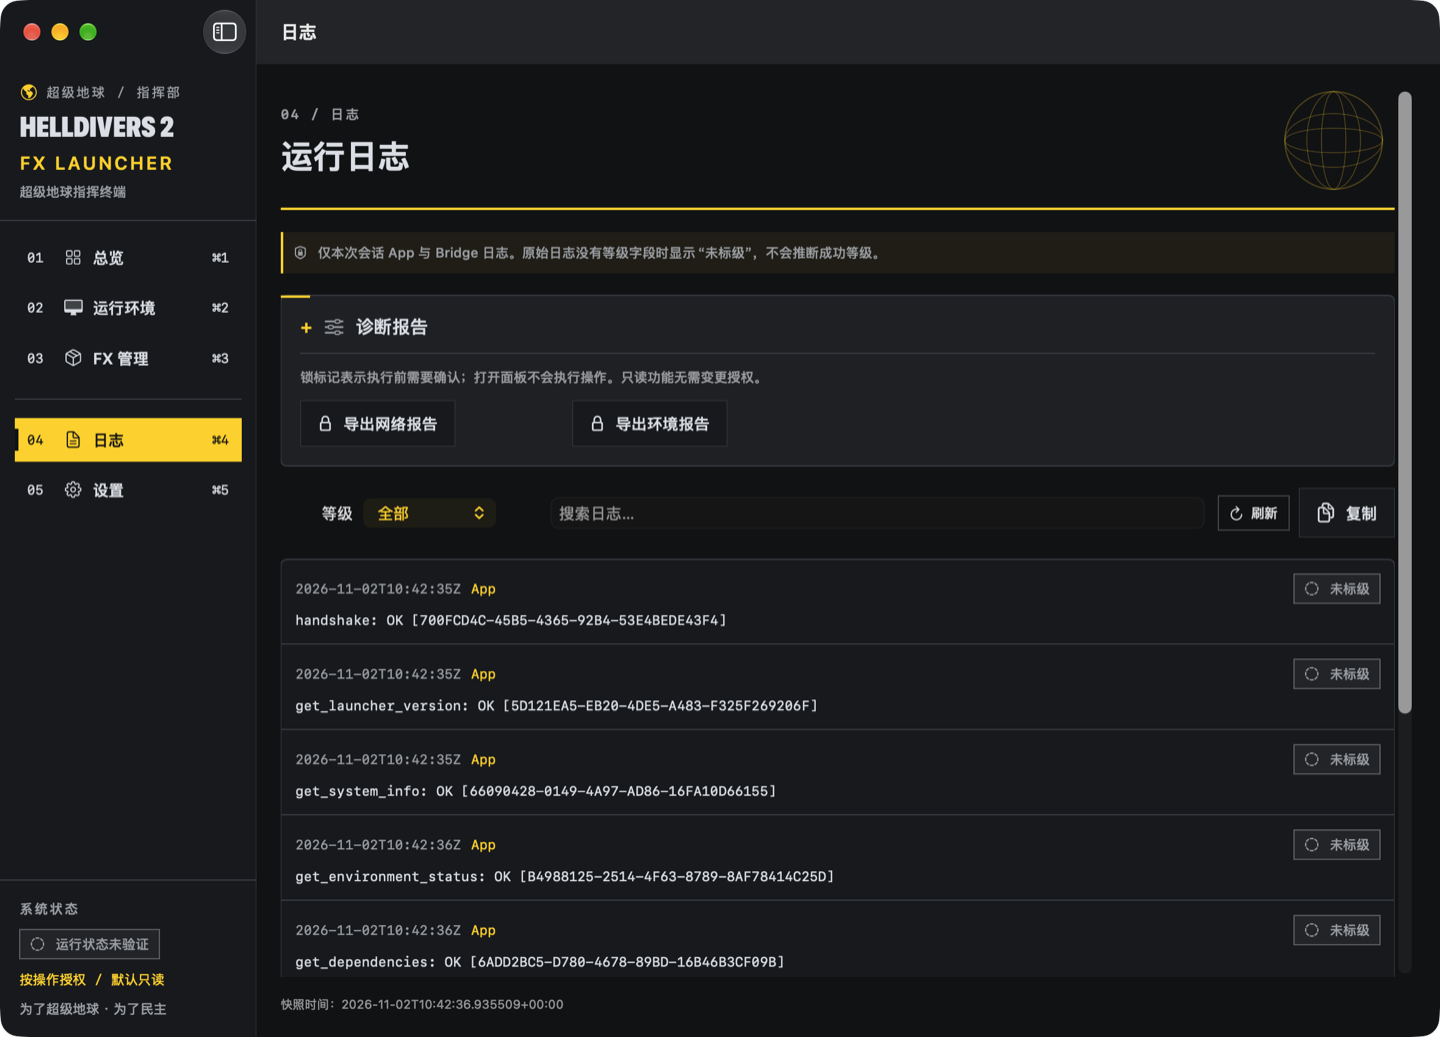
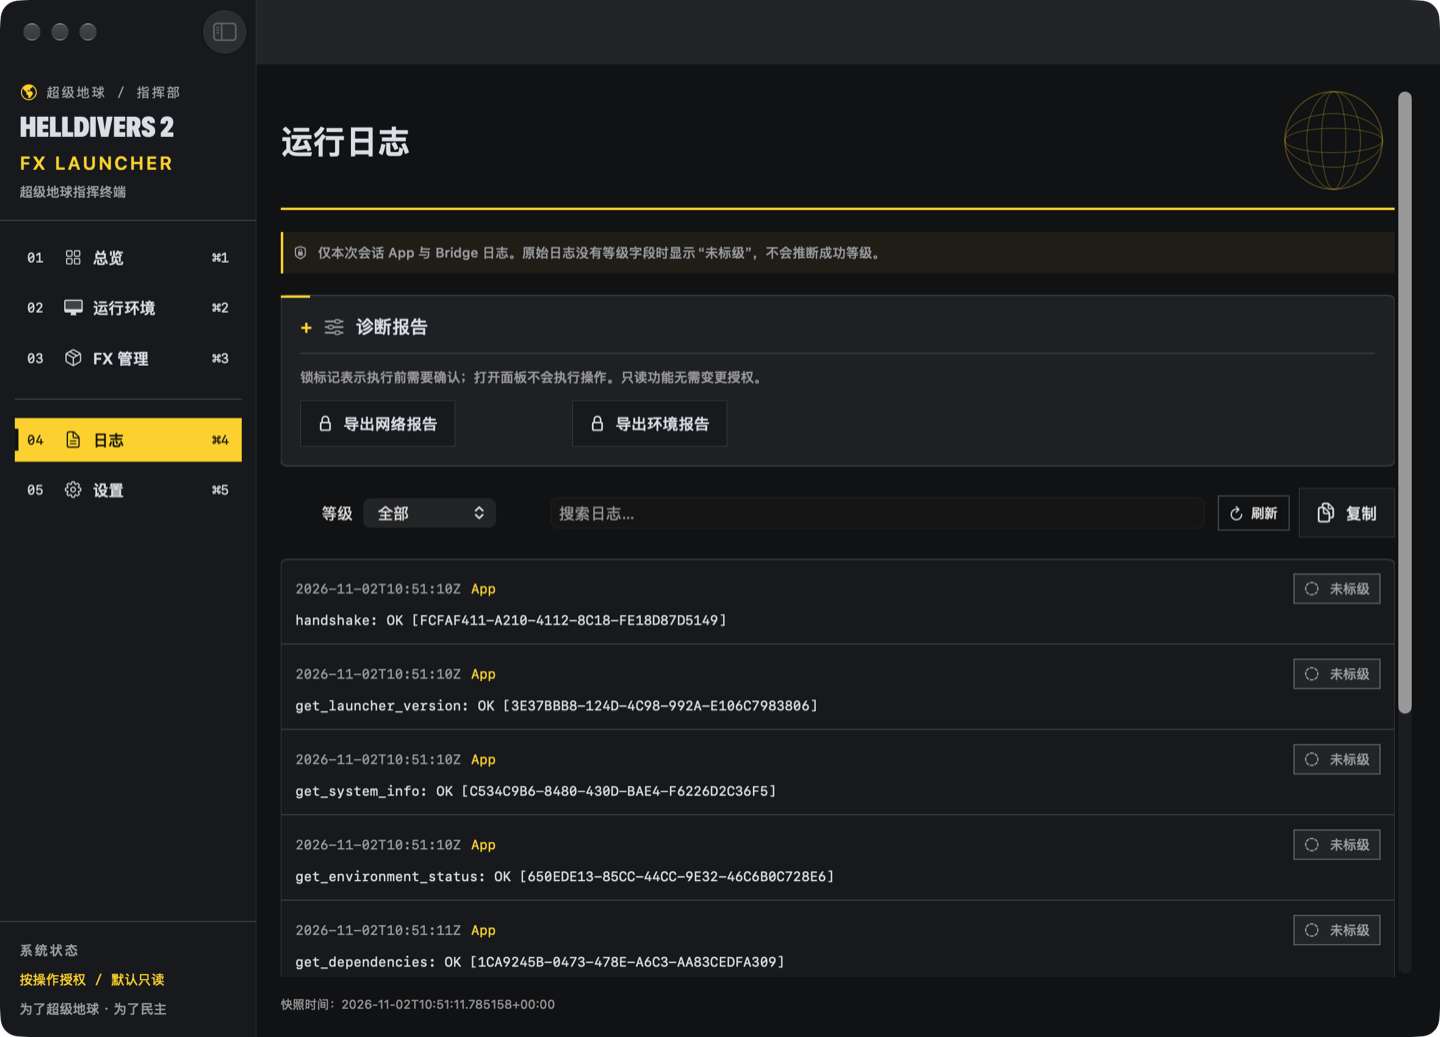
ui: simplify page headings and consolidate status information

diff --git a/native-app/Views/DashboardView.swift b/native-app/Views/DashboardView.swift
@@ -7,11 +7,10 @@ struct DashboardView: View {
     private var c: TacticalColors { TacticalColors(scheme: scheme) }
     private var unverified: String { state.t("未验证", "Unverified") }
     private var launchReason: String {
-        state.t("默认只读。启动需主动操作、指定既有运行目录，并确认实际变更；兼容性与联机仍未验证。", "Read-only by default. Launch requires an explicit action, an existing runtime directory and approval of actual changes. Compatibility and multiplayer remain unverified.")
+        state.t("启动需主动操作、指定既有运行目录，并确认实际变更；兼容性与联机仍未验证。", "Launch requires an explicit action, an existing runtime directory and approval of actual changes. Compatibility and multiplayer remain unverified.")
     }
     var body: some View {
         VStack(alignment: .leading, spacing: TacticalSpacing.panel) {
-            commandBar
             hero
             if state.launchSession.current != .idle { LaunchProgressView(state: state, tasks: tasks) }
             if let error = state.error {
@@ -35,38 +34,15 @@ struct DashboardView: View {
             }
         }.foregroundStyle(c.text).font(TacticalTypography.body)
     }
-    private var commandBar: some View {
-        ViewThatFits(in: .horizontal) {
-            HStack {
-                TacticalEyebrow(text: state.t("超级地球 / 指挥界面", "SUPER EARTH / COMMAND INTERFACE"))
-                Spacer(minLength: 12)
-                TacticalStatusBadge(text: state.t("迁移预览 · 默认只读", "MIGRATION PREVIEW · READ-ONLY DEFAULT"))
-            }
-            VStack(alignment: .leading, spacing: 8) {
-                TacticalEyebrow(text: state.t("超级地球 / 指挥界面", "SUPER EARTH / COMMAND INTERFACE"))
-                TacticalStatusBadge(text: state.t("迁移预览 · 默认只读", "MIGRATION PREVIEW · READ-ONLY DEFAULT"))
-            }
-        }
-    }
     private var hero: some View {
         VStack(alignment: .leading, spacing: 0) {
             VStack(alignment: .leading, spacing: 22) {
                 VStack(alignment: .leading, spacing: 6) {
-                    HStack(spacing: 8) {
-                        Text("01").foregroundStyle(c.accent)
-                        Text(state.pageTitle(.dashboard)).foregroundStyle(c.muted)
-                            .accessibilityIdentifier("page.title")
-                        Text("/ " + state.value("get_launcher_version", "version")).foregroundStyle(c.muted)
-                    }.font(TacticalTypography.log)
                     Text("HELLDIVERS 2").font(TacticalTypography.brand).foregroundStyle(c.accent).lineLimit(1).minimumScaleFactor(0.75)
-                        .accessibilityAddTraits(.isHeader)
+                        .accessibilityIdentifier("page.title").accessibilityAddTraits(.isHeader)
                     Text("FX LAUNCHER").font(.system(size: 19, weight: .bold, design: .monospaced)).tracking(4).foregroundStyle(c.text)
-                    TacticalDivider().padding(.vertical, 5)
-                    Text(state.t("为了超级地球 · 为了民主", "FOR SUPER EARTH / FOR DEMOCRACY"))
-                        .font(TacticalTypography.caption).foregroundStyle(c.muted)
                 }.frame(maxWidth: 380, alignment: .leading)
                 HStack(spacing: 10) {
-                    TacticalEyebrow(text: state.t("行动状态", "OPERATION STATUS"))
                     TacticalStatusBadge(text: state.t("当前运行状态：未验证", "Current runtime: unverified"))
                 }
             }
@@ -97,7 +73,6 @@ struct DashboardView: View {
     }
     private var runtimeCard: some View {
         TacticalPanel(number: "02", title: state.t("FX 运行时", "FX RUNTIME"), symbol: "shippingbox") {
-            TacticalStatusBadge(text: unverified)
             TacticalInfoRow(title: state.t("已发现版本", "Discovered versions"), value: versions)
             TacticalInfoRow(title: state.t("运行路径", "Runtime path"), value: state.t("未读取", "Not read"))
             Text(state.t("仅应用元数据；未识别当前运行实例。", "App metadata only; the active runtime has not been identified."))
@@ -118,7 +93,6 @@ struct DashboardView: View {
     }
     private var environmentCard: some View {
         TacticalPanel(number: "03", title: state.t("运行环境", "ENVIRONMENT"), symbol: "desktopcomputer") {
-            TacticalStatusBadge(text: state.hasLoaded ? state.t("本机元数据", "Host metadata") : state.t("尚未读取", "Not yet inspected"))
             TacticalInfoRow(title: "macOS", value: state.value("get_system_info", "os_version"))
             TacticalInfoRow(title: state.t("架构", "Architecture"), value: architecture)
             TacticalInfoRow(title: "Python", value: state.value("get_system_info", "python"))

diff --git a/native-app/Views/FXManagerView.swift b/native-app/Views/FXManagerView.swift
@@ -4,7 +4,7 @@ struct FXManagerView: View {
     @ObservedObject var state: AppState
     var body: some View {
         VStack(alignment: .leading, spacing: 20) {
-            TacticalPageHeader(number: "03", title: state.t("FX 版本管理", "FX version management"), section: state.pageTitle(.fx), refreshState: state)
+            TacticalPageHeader(title: state.t("FX 版本管理", "FX version management"), refreshState: state)
             if state.results["list_fx_versions"]?["scan_incomplete"]?.boolean == true {
                 TacticalWarningBanner(text: scanWarning + " " + state.t("这是扫描范围限制，不代表安装异常。", "This limits scan coverage; it does not indicate a damaged installation."))
             }
@@ -16,13 +16,11 @@ struct FXManagerView: View {
                 ForEach(Array(candidates.enumerated()), id: \.offset) { index, row in
                     TacticalPanel(number: String(format: "%02d", index + 1), title: "FX " + version(row), symbol: "shippingbox") {
                         TacticalStatusBadge(text: state.t("已发现 · 元数据", "Discovered · Metadata"))
-                        TacticalInfoRow(title: state.t("版本", "Version"), value: version(row))
                         TacticalInfoRow(title: state.t("App 名称", "App name"), value: row["path"]?.text.map { URL(fileURLWithPath: $0).lastPathComponent } ?? state.t("未知", "Unknown"))
                         TacticalInfoRow(title: state.t("扫描位置", "Discovery scope"), value: row["location"]?.text ?? state.t("未知", "Unknown"))
                         TacticalInfoRow(title: state.t("完整安装路径", "Full installation path"), value: row["path"]?.text ?? state.t("未知", "Unknown"))
                         TacticalDivider()
                         TacticalInfoRow(title: state.t("安装文件", "Installation files"), value: state.t("已发现 · 仅元数据", "Found · Metadata only"))
-                        TacticalInfoRow(title: state.t("扫描范围", "Scan coverage"), value: state.results["list_fx_versions"]?["scan_incomplete"]?.boolean == true ? state.t("限定扫描不完整", "Bounded scan incomplete") : state.t("已完成限定目录扫描", "Bounded directories inspected"))
                         TacticalInfoRow(title: state.t("结构检测", "Structure check"), value: row["structure"]?.text == "metadata_valid" ? state.t("匹配 Core 结构规则", "Matches Core structure rules") : state.t("未验证", "Unverified"))
                         TacticalDivider()
                         TacticalInfoRow(title: state.t("进程 / 活动实例", "Process / Active instance"), value: state.t("无法确认 · 未执行实例关联检测", "Cannot confirm · No instance correlation probe"))

diff --git a/native-app/Views/SettingsView.swift b/native-app/Views/SettingsView.swift
@@ -12,7 +12,7 @@ struct SettingsView: View {
     @StateObject private var presentation = SettingsPresentation()
     var body: some View {
         VStack(alignment: .leading, spacing: 20) {
-            TacticalPageHeader(number: "05", title: state.t("设置", "Settings"), section: state.pageTitle(.settings))
+            TacticalPageHeader(title: state.t("设置", "Settings"))
             TacticalPanel(number: "A", title: state.t("界面设置", "Interface"), symbol: "slider.horizontal.3") {
                 Picker(state.t("语言", "Language"), selection: $state.languageCode) {
                     ForEach(NativeLocalization.languages, id: \.0) { code, title in Text(title).tag(code) }
@@ -35,10 +35,7 @@ struct SettingsView: View {
             }
             SoftwareUpdateView(manager: state.updates, language: state.languageCode)
             LegacyOperationsView(state: state, scope: "settings")
-            TacticalPanel(number: "C", title: state.t("高级设置", "Advanced"), symbol: "lock.shield") {
-                TacticalInfoRow(title: state.t("操作权限", "Operations"), value: state.t("默认只读 · 逐操作确认", "Read-only default · Per-action consent"))
-                TacticalInfoRow(title: state.t("配置写入", "Configuration writes"), value: state.t("需预览与确认", "Preview and confirmation required"))
-            }
+
         }
         .fileImporter(isPresented: $presentation.choosingPython, allowedContentTypes: [.item], allowsMultipleSelection: false) { result in
             guard case .success(let urls) = result, let url = urls.first else { return }
@@ -68,6 +65,10 @@ struct LegacyOperationsView: View {
     }
     var body: some View {
         TacticalPanel(number: "+", title: title, symbol: "slider.horizontal.3") {
+            if scope == "settings" {
+                TacticalInfoRow(title: state.t("操作权限", "Operations"), value: state.t("默认只读 · 逐操作确认", "Read-only default · Per-action consent"))
+                TacticalInfoRow(title: state.t("配置写入", "Configuration writes"), value: state.t("需预览与确认", "Preview and confirmation required"))
+            }
             if state.rows("get_legacy_catalog", "operations").isEmpty {
                 Text(state.t("请刷新以读取后端能力。", "Refresh to read backend capabilities."))
             }

diff --git a/native-app/App/DesignSystem/TacticalComponents.swift b/native-app/App/DesignSystem/TacticalComponents.swift
@@ -182,27 +182,24 @@ struct SuperEarthGlobeDecoration: View {
     }
 }
 
+// One content heading per page; navigation identity belongs to the sidebar.
 struct TacticalPageHeader: View {
-    let number: String
     let title: String
-    let section: String
     var refreshState: AppState? = nil
     @Environment(\.colorScheme) private var scheme
     var body: some View {
         let c = TacticalColors(scheme: scheme)
         VStack(alignment: .leading, spacing: 12) {
-            HStack {
-                VStack(alignment: .leading, spacing: 10) {
-                    TacticalEyebrow(text: number + " / " + section)
-                    ViewThatFits(in: .horizontal) {
-                        HStack(alignment: .firstTextBaseline, spacing: 12) {
-                            pageTitle
-                            if let refreshState { TacticalRefreshButton(state: refreshState, tasks: refreshState.tasks) }
-                        }
-                        VStack(alignment: .leading, spacing: 10) {
-                            pageTitle
-                            if let refreshState { TacticalRefreshButton(state: refreshState, tasks: refreshState.tasks) }
-                        }
+            HStack(spacing: 12) {
+                ViewThatFits(in: .horizontal) {
+                    HStack(alignment: .firstTextBaseline, spacing: 12) {
+                        pageTitle
+                        Spacer(minLength: 12)
+                        if let refreshState { TacticalRefreshButton(state: refreshState, tasks: refreshState.tasks) }
+                    }
+                    VStack(alignment: .leading, spacing: 10) {
+                        pageTitle
+                        if let refreshState { TacticalRefreshButton(state: refreshState, tasks: refreshState.tasks) }
                     }
                 }.frame(maxWidth: .infinity, alignment: .leading)
                 SuperEarthGlobeDecoration()

diff --git a/native-app/Views/EnvironmentView.swift b/native-app/Views/EnvironmentView.swift
@@ -13,7 +13,7 @@ struct EnvironmentView: View {
     }
     var body: some View {
         VStack(alignment: .leading, spacing: 20) {
-            TacticalPageHeader(number: "02", title: state.t("运行环境检测", "Environment inspection"), section: state.pageTitle(.environment), refreshState: state)
+            TacticalPageHeader(title: state.t("运行环境检测", "Environment inspection"), refreshState: state)
             TacticalAdaptiveLayout(minimumWidth: 140, maximumColumns: 4) {
                 TacticalMetric(title: "macOS", value: state.value("get_system_info", "os_version"), symbol: "apple.logo")
                 TacticalMetric(title: state.t("架构", "Architecture"), value: state.value("get_system_info", "arch"), symbol: "cpu")
@@ -38,7 +38,6 @@ struct EnvironmentView: View {
                         .font(TacticalTypography.caption).foregroundStyle(.secondary)
                 }
                 TacticalPanel(number: "B", title: state.t("运行组件", "Runtime components"), symbol: "cpu") {
-                    badge(snapshotStatus("get_environment_status"))
                     TacticalInfoRow(title: state.t("FX 运行时", "FX runtime"), value: state.t("无法确认 · 只读快照未探测进程", "Cannot confirm · Snapshot does not probe processes"))
                     TacticalInfoRow(title: state.t("gvproxy 运行时", "gvproxy runtime"), value: state.t("无法确认 · 只读快照未探测服务", "Cannot confirm · Snapshot does not probe services"))
                     TacticalWarningBanner(text: state.t("刷新不会启动 FX 或连接 Guest。使用网络与连接工具主动检查；启动记录不等于当前实时状态。", "Refresh does not start FX or connect to Guest. Use the connection tools for explicit checks; launch history is not current live state."))

diff --git a/native-app/Views/LogsView.swift b/native-app/Views/LogsView.swift
@@ -38,7 +38,7 @@ struct LogsView: View {
     var body: some View {
         let c = TacticalColors(scheme: scheme)
         VStack(alignment: .leading, spacing: 18) {
-            TacticalPageHeader(number: "04", title: state.t("运行日志", "Session logs"), section: state.pageTitle(.logs))
+            TacticalPageHeader(title: state.t("运行日志", "Session logs"))
             TacticalWarningBanner(text: state.t("仅本次会话 App 与 Bridge 日志。原始日志没有等级字段时显示“未标级”，不会推断成功等级。", "App and bridge logs from this session only. Entries without an explicit severity remain unclassified; success is not inferred."))
             LegacyOperationsView(state: state, scope: "logs")
             ViewThatFits(in: .horizontal) {

diff --git a/native-app/Views/SidebarView.swift b/native-app/Views/SidebarView.swift
@@ -41,7 +41,6 @@ struct SidebarView: View {
             TacticalDivider()
             VStack(alignment: .leading, spacing: 10) {
                 TacticalEyebrow(text: state.t("系统状态", "SYSTEM STATUS"))
-                TacticalStatusBadge(text: state.t("运行状态未验证", "Runtime unverified"))
                 Text(state.t("按操作授权 / 默认只读", "ACTION CONSENT / READ-ONLY DEFAULT"))
                     .font(TacticalTypography.log).foregroundStyle(c.accent)
                 Text(state.t("为了超级地球 · 为了民主", "FOR SUPER EARTH\nFOR DEMOCRACY"))

diff --git a/native-app/Views/ContentView.swift b/native-app/Views/ContentView.swift
@@ -50,7 +50,7 @@ struct ContentView: View {
             .padding(TacticalSpacing.page)
             .frame(maxWidth: .infinity, maxHeight: .infinity, alignment: .topLeading)
             .background(TacticalColors(scheme: scheme).background)
-            .navigationTitle(state.selection == .dashboard ? "HELLDIVERS 2 / FX LAUNCHER" : (state.selection ?? .dashboard).title(state.chinese))
+            .navigationTitle("")
             .tint(TacticalColors(scheme: scheme).accent)
 
         }

diff --git a/AGENTS.md b/AGENTS.md
@@ -1,7 +1,7 @@
 # Native App development
 
-Instruction version: **v1.2.1** · Updated: **2026-11-02**.
-Change: unify five-page refresh placement, honest inspection states and production-facing tool labels; preserve launch, credential and updater boundaries.
+Instruction version: **v1.2.2** · Updated: **2026-11-02**.
+Change: require a single content heading, sidebar-only navigation numbering and scoped status explanations across the five pages.
 
 - Architecture: SwiftUI + narrowly scoped AppKit; one AppState and existing Service Layer. Refresh remains read-only. The functional migration permits allowlisted Core actions through the supervised Bridge, with explicit user initiation and consent for writes/launch/SSH. Unknown/unverified is never success. Development tests use isolated fixtures; real game/network/system changes require the corresponding user action.
 - Work on `feature/macos-native-app`; batch related changes, verify the affected behavior, commit and push the feature branch. Merge substantial completed stages into main only after appropriate checks. Never force-push, rewrite unknown history, delete releases/tags, or overwrite another developer's changes.
@@ -22,6 +22,8 @@ Change: unify five-page refresh placement, honest inspection states and producti
 UI instruction: **HD2_NATIVE_APP_UI_REFINEMENT_v1.0.2** · 2026-11-02. Five-page tactical visual system; the supplied generated soldier image is bundled as HelldiverHero and is Dashboard-only. Environment, FX, Logs and Settings share one small upper-right wireframe globe. Never use a whole UI preview as artwork or copy its example health states. Keep absent metadata explicit.
 
 UI polish instruction: **HD2_NATIVE_APP_UI_POLISH_v1.0.1** · 2026-11-02. No titlebar refresh control. Keep full read-only refresh on Dashboard Check Environment, Environment/FX page headers, Logs toolbar and Cmd-R; Settings has no independent refresh. Use Network and connection tools / FX diagnostics / Diagnostic reports / Advanced configuration names. Distinguish not checked, checking, normal, action needed, failed and cannot confirm using actual probe scope. Installation metadata never establishes an active FX/Guest or EAC/multiplayer health. Keep update controls before advanced configuration and use adaptive tool grids. Preserve existing authorization, session-only credentials and redaction.
+
+Information hierarchy instruction: **HD2_NATIVE_APP_UI_INFORMATION_HIERARCHY_v1.0.0** · 2026-11-02. Keep page names/numbers in the sidebar and one main heading in content. Remove redundant window page titles, content breadcrumbs and Dashboard command masthead. Place page actions beside the heading with a narrow-window fallback. Keep global read-only policy in the sidebar, component evidence at its component, and preserve all errors, risk/consent details, card functions and existing bindings.
 
 Functional instruction: **HD2_NATIVE_APP_FUNCTION_MIGRATION_v1.0.0** · 2026-11-02. Reuse actual archived behavior; no fabricated success, EAC or multiplayer inference. Keep target/hash/boot guards and exact-change approvals. Preserve unknown configuration with revision checking, backup and atomic replacement. Bound/redact logs and provide cancellation. No FX installation changes, file deletion or high-risk system actions without explicit confirmation. Original locale coverage and new Native translation coverage must be reported separately.
 

diff --git a/README.md b/README.md
@@ -59,7 +59,7 @@ Sparkle 2.10.1 is integrated for Launcher-only updates, with shared menu/setting
 
 ### Screenshots
 
-**Dashboard — five-page UI polish, actual App capture on 2026-11-02.** Click for the full image.
+**Dashboard — streamlined page hierarchy, actual App capture on 2026-11-02.** Click for the full image.
 
 [![Dashboard — actual Native App window, runtime unverified](docs/images/dashboard.png)](docs/images/dashboard.png)
 
@@ -70,7 +70,7 @@ Sparkle 2.10.1 is integrated for Launcher-only updates, with shared menu/setting
 | [![Logs](docs/images/logs.png)](docs/images/logs.png) | [![Settings](docs/images/settings.png)](docs/images/settings.png) |
 
 > [!NOTE]
-> All five images were captured from the running Debug App on 2026-11-02 during `HD2_NATIVE_APP_UI_POLISH_v1.0.1`, using its real read-only snapshot. They show the refreshed five-page layout, not generated UI mockups. Lower sections remain accessible by scrolling. Images were proportionally reduced for the README; no status or UI was composited. No FX/game launch, EAC or multiplayer success is implied.
+> All five images were captured from the running Debug App on 2026-11-02 during `HD2_NATIVE_APP_UI_INFORMATION_HIERARCHY_v1.0.0`, using its real read-only snapshot. They show the five-page layout with one main content heading per page, not generated UI mockups. Lower sections remain accessible by scrolling. Images were proportionally reduced for the README; no status or UI was composited. No FX/game launch, EAC or multiplayer success is implied.
 
 <a id="en-requirements"></a>
 
@@ -207,7 +207,7 @@ No project-wide source license has been selected. Do not assume blanket redistri
 
 ### 软件截图
 
-**总览——2026-11-02 五页面 UI 精修后的真实 App 截图。** 点击可查看大图。
+**总览——2026-11-02 页面信息层级优化后的真实 App 截图。** 点击可查看大图。
 
 [![总览——真实 Native App 窗口，运行状态未验证](docs/images/dashboard.png)](docs/images/dashboard.png)
 
@@ -218,7 +218,7 @@ No project-wide source license has been selected. Do not assume blanket redistri
 | [![Logs](docs/images/logs.png)](docs/images/logs.png) | [![Settings](docs/images/settings.png)](docs/images/settings.png) |
 
 > [!NOTE]
-> 五张均于 2026-11-02 的 `HD2_NATIVE_APP_UI_POLISH_v1.0.1` 检查中，从运行中的 Debug App 及其真实只读快照采集，展示本轮五页布局，不是生成式 UI 预览图。下方区域可通过滚动查看。图片仅按比例缩小用于 README，没有合成界面或运行状态，不证明 FX／游戏启动、EAC 或联机成功。
+> 五张均于 2026-11-02 的 `HD2_NATIVE_APP_UI_INFORMATION_HIERARCHY_v1.0.0` 检查中，从运行中的 Debug App 及其真实只读快照采集，展示每页仅保留一个主标题的五页布局，不是生成式 UI 预览图。下方区域可通过滚动查看。图片仅按比例缩小用于 README，没有合成界面或运行状态，不证明 FX／游戏启动、EAC 或联机成功。
 
 <a id="zh-requirements"></a>
 
